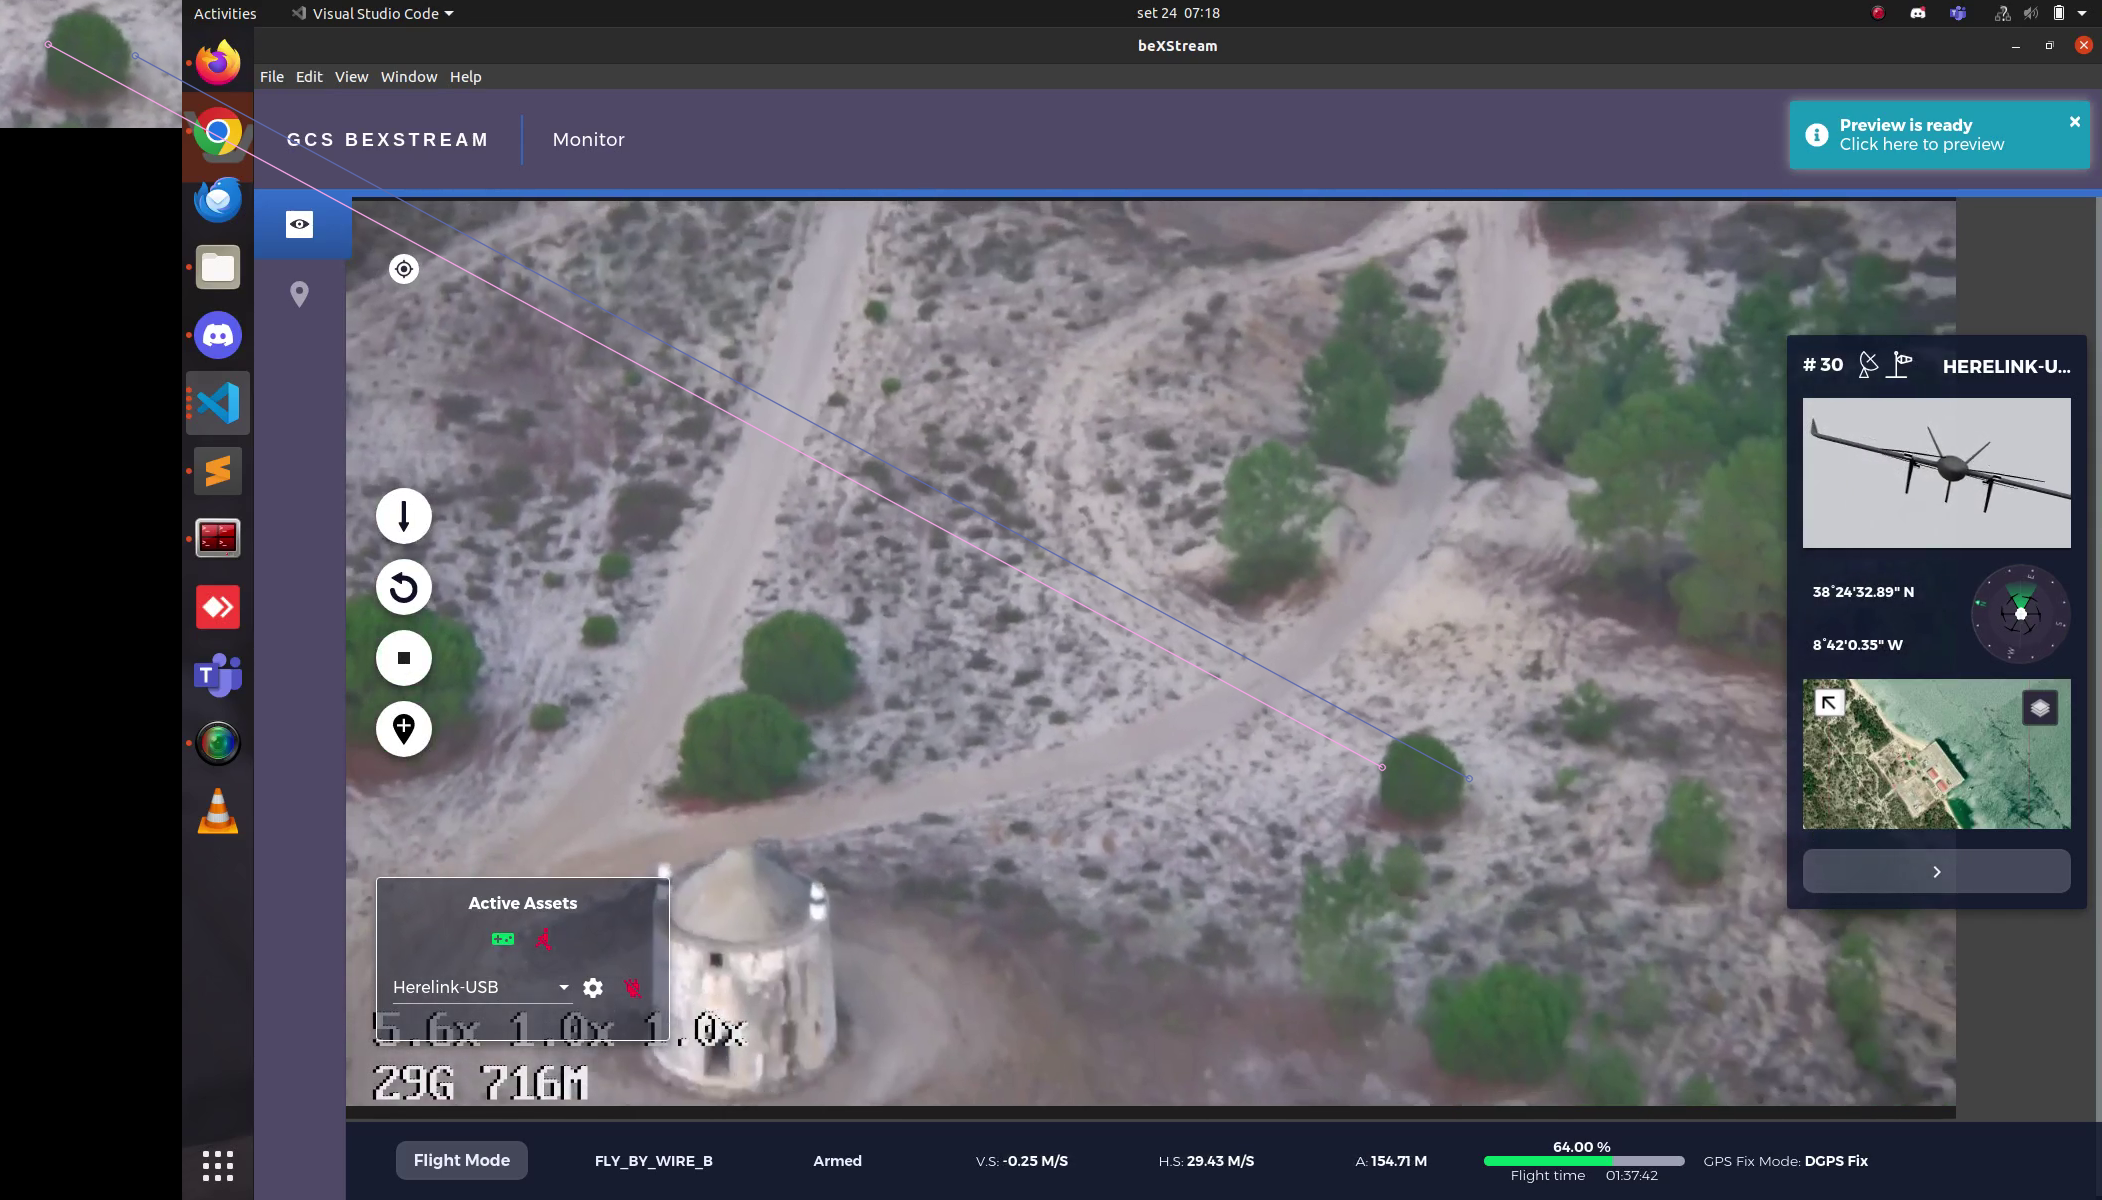
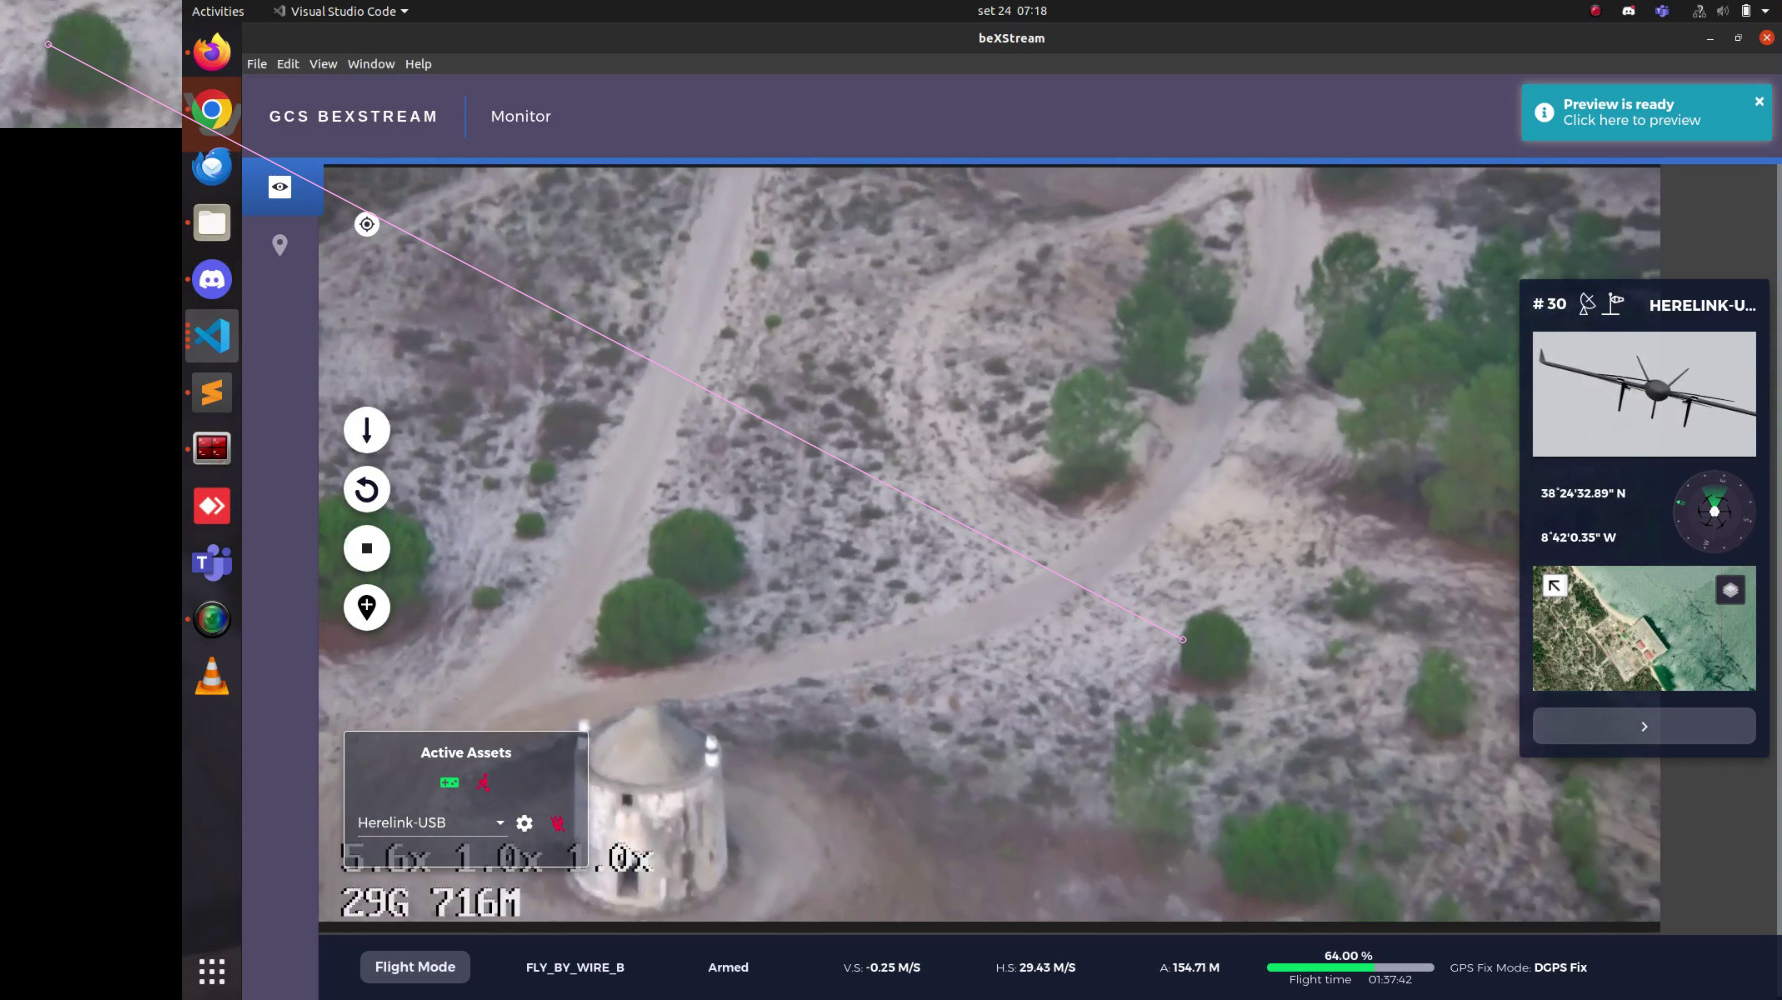
final benchmarks

diff --git a/ML_algorithms/sift.py b/ML_algorithms/sift.py
@@ -33,12 +33,28 @@ class Sift:
         # Create a Brute Force Matcher object.
         bf = cv2.BFMatcher(cv2.NORM_L1, crossCheck = False)
 
-        # Perform the matching between the SIFT descriptors of the training image and the test image
-        matches = bf.match(self.descriptors_left, self.descriptors_right)
+        # Apply knn matching to get k=2 best matches for each descriptor
+        knn_matches = bf.knnMatch(self.descriptors_left, self.descriptors_right, k=2)
+
+        # Apply Lowe's ratio test
+        ratio_thresh = 0.75
+        good_matches = []
+        for m, n in knn_matches:
+            if m.distance < ratio_thresh * n.distance:
+                good_matches.append(m)
+
+        # Sort good matches by distance
+        good_matches = sorted(good_matches, key=lambda x: x.distance)
 
         # The matches with shorter distance are the ones we want.
-        matches = sorted(matches, key = lambda x : x.distance)
-        result = cv2.drawMatches(self.img1, self.keypoints_left, self.img2, self.keypoints_right, matches, self.img2, flags = 2)
+        result = cv2.drawMatches(self.img1, self.keypoints_left, self.img2, self.keypoints_right, good_matches, self.img2, flags = 2)
+
+        # Robustness Metric
+        if len(self.keypoints_left) > 0:
+            robustness = len(good_matches) / len(self.keypoints_left)
+            print(f"Robustness Metric (good matches / logo keypoints): {robustness:.4f}")
+        else:
+            print("Robustness Metric: Undefined (no keypoints in logo)")
 
         # Print the number of keypoints detected in the sample image
         print("Number of Keypoints Detected In The Sample Image: ", len(self.keypoints_left))
@@ -47,7 +63,7 @@ class Sift:
         print("Number of Keypoints Detected In The Overall Image: ", len(self.keypoints_right))
 
         # Print total number of matching points between the sample and overall images
-        print("\nNumber of Matching Keypoints Between The Sample and Overall Images: ", len(matches))
+        print("\nNumber of Matching Keypoints Between The Sample and Overall Images: ", len(good_matches))
 
         # Number of descriptors
         print("Number of descriptors (logo):", self.descriptors_left.shape[0])
@@ -59,5 +75,3 @@ class Sift:
         # Display the best matching points
         cv2.imwrite("sift_result.png", result)
         cv2.imshow('SIFT', result)
-        cv2.waitKey()
-        cv2.destroyAllWindows()

diff --git a/ML_algorithms/brief.py b/ML_algorithms/brief.py
@@ -53,6 +53,15 @@ class Brief:
 
         result = cv2.drawMatches(self.img1, self.keypoints_left, self.img2, self.keypoints_right, matches, self.img2, flags = 2)
 
+        num_logo_kp = len(self.keypoints_left)
+        num_frame_kp = len(self.keypoints_right)
+        num_matches = len(matches)
+
+        # Simple robustness metric
+        matching_score = num_matches / min(num_logo_kp, num_frame_kp)
+        print("\n--- ROBUSTNESS METRIC ---")
+        print(f"Matching Score: {matching_score:.4f} ({num_matches} matches / {min(num_logo_kp, num_frame_kp)} keypoints)")
+
         # Print the number of keypoints detected in the sample image
         print("Number of Keypoints Detected In The Sample Image: ", len(self.keypoints_left))
 
@@ -71,5 +80,3 @@ class Brief:
 
         cv2.imwrite("brief_result.png", result)
         cv2.imshow('result', result)
-        cv2.waitKey()
-        cv2.destroyAllWindows()

diff --git a/run_images.py b/run_images.py
@@ -1,5 +1,6 @@
 import cv2 as cv2
 import numpy as np
+import time
 
 from ML_algorithms.sift import Sift
 from ML_algorithms.orb import Orb
@@ -9,6 +10,8 @@ from my_DL import DL
 
 logo = cv2.imread('data/logo.png')
 frame = cv2.imread('data/frame.png')
+
+start_time = time.time()
 
 #my_object = DL() 
 #my_object = Sift()
@@ -20,5 +23,9 @@ my_object = Akaze()
 #my_object.find_key_points_frame(frame)
 my_object.find_matches(frame)  #only one available for akaze
 
-cv2.waitKey(0)
+end_time = time.time()
+elapsed_time = end_time - start_time
+print(f"Execution time: {elapsed_time:.4f} seconds")
 
+cv2.waitKey(0)
+cv2.destroyAllWindows()

diff --git a/ML_algorithms/orb.py b/ML_algorithms/orb.py
@@ -34,6 +34,14 @@ class Orb:
         matches = self.matcher.match(self.descriptors_left, self.descriptors_right)
 
         good_matches = sorted(matches, key=lambda x: x.distance)
+
+        # --- Compute Robustness Metric ---
+        num_good_matches = len(good_matches)
+        min_keypoints = min(len(self.keypoints_left), len(self.keypoints_right))
+        robustness_score = num_good_matches / min_keypoints if min_keypoints > 0 else 0
+
+        print("\n=== Robustness Metric ===")
+        print("Robustness Score:", round(robustness_score, 4))
         
         # -- Draw matches
         img_matches = np.empty(

diff --git a/ML_algorithms/akaze.py b/ML_algorithms/akaze.py
@@ -59,6 +59,11 @@ class Akaze:
         print("Memory (logo descriptors):", self.descriptors_left.nbytes, "bytes")
         print("Memory (frame descriptors):", self.descriptors_right.nbytes, "bytes")
 
+        min_keypoints = min(len(self.keypoints_left), len(self.keypoints_right))
+        if min_keypoints > 0:
+            match_ratio = len(good) / min_keypoints
+        else:
+            match_ratio = 0.0
+        print("\n Robustness Metric (Match Ratio): {:.2f}".format(match_ratio))
+
         cv2.imshow('Akaze', result)
-        cv2.waitKey()
-        cv2.destroyAllWindows()
